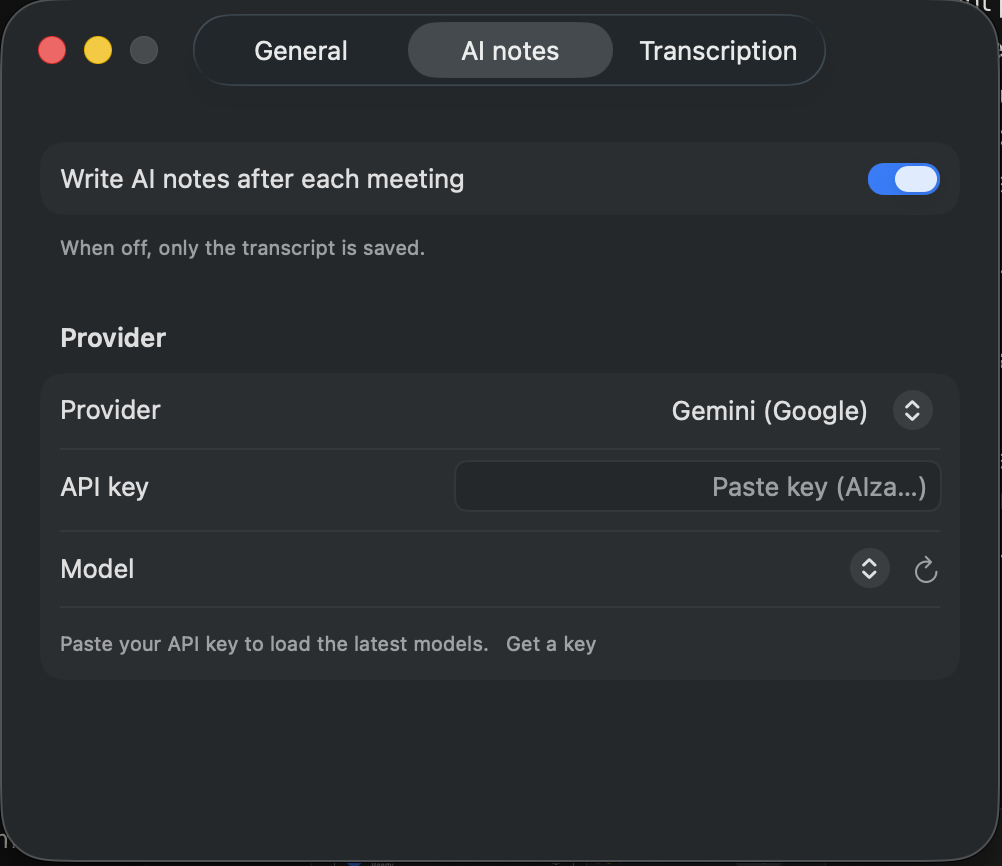
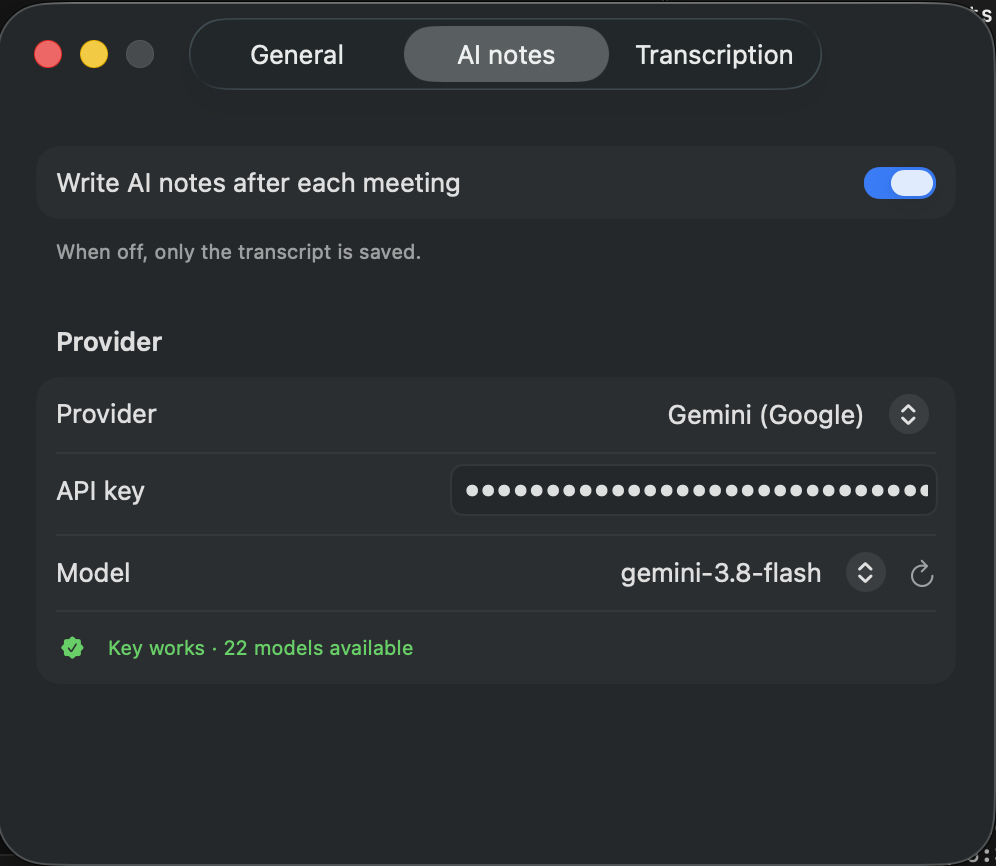
meeting-notes README: screenshots of the new UI

diff --git a/README.md b/README.md
@@ -21,7 +21,7 @@ read from the screen. The colours live in `MeetingApp.isHighlight` and are easy 
 
 | Menu bar | AI notes settings | Transcription settings |
 |---|---|---|
-| <img src="docs/menu.png" width="280" alt="Menu-bar popover with Start recording, quick switches and recent meetings"> | <img src="docs/settings-ai.png" width="300" alt="Settings, AI notes tab: provider, API key and model"> | <img src="docs/settings-transcription.png" width="300" alt="Settings, Transcription tab: local whisper.cpp with model found"> |
+| <img src="docs/menu.png" width="280" alt="Menu-bar popover writing notes step by step, with quick switches and recent meetings"> | <img src="docs/settings-ai.png" width="300" alt="Settings, AI notes tab: Gemini provider, key checked, model chosen"> | <img src="docs/settings-transcription.png" width="300" alt="Settings, Transcription tab: local whisper.cpp, language and model found"> |
 
 **Contents:** [Features](#features) · [Example output](#example-output) · [How it works](#how-it-works) ·
 [Why two AI models](#why-two-different-ai-models) · [Whisper & the model file](#transcription-whisper-ggml-and-large-v3-turbo-q5_0) ·
